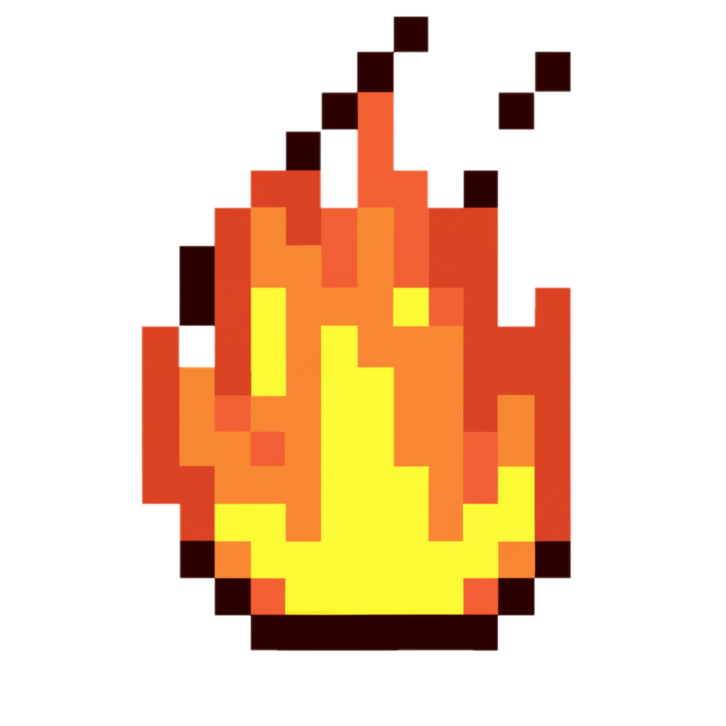
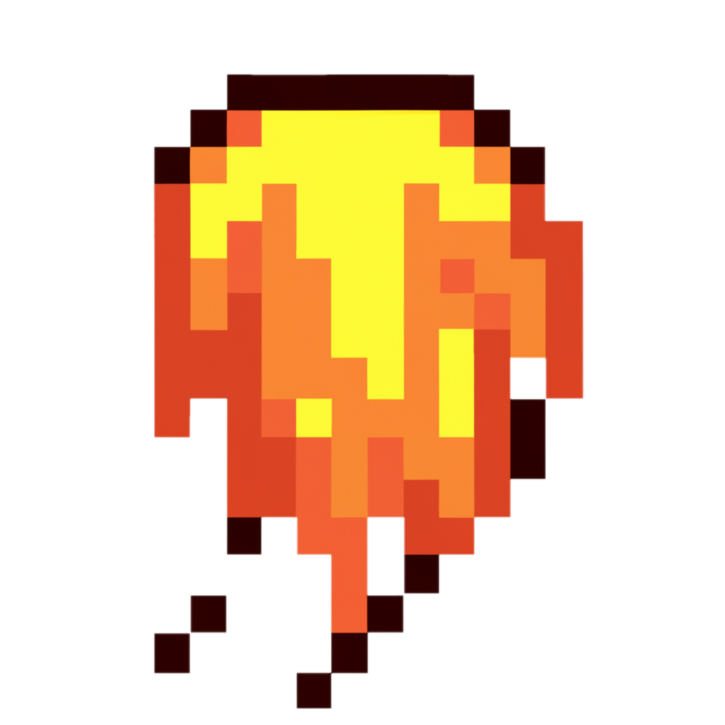
Fondo agregado, proyectiles rotados.

diff --git a/Proyecto Final 2/Assets/Scripts/BossBehavior.cs b/Proyecto Final 2/Assets/Scripts/BossBehavior.cs
@@ -33,8 +33,8 @@ public class BossBehavior : MonoBehaviour
         {
             time = Random.Range(0f, interpolationPeriod);
             GameObject balita = Instantiate(RandomObjToSpawn(), transform.position, Quaternion.identity);
-            balita.GetComponent<Rigidbody>().AddForce((player.transform.position-transform.position) * fuerza);
-            
+            balita.transform.up = (player.transform.position-transform.position);
+            balita.GetComponent<Rigidbody>().AddForce((player.transform.position-transform.position) * fuerza); 
         }
         Patrol();
     }

diff --git a/Proyecto Final 2/Assets/Scripts/Spawnear1.cs b/Proyecto Final 2/Assets/Scripts/Spawnear1.cs
@@ -29,6 +29,7 @@ public class Spawnear1 : MonoBehaviour
             {
                 time = Random.Range(0f, interpolationPeriod);
                 GameObject balita = Instantiate(RandomObjToSpawn(), transform.position, Quaternion.identity);
+                balita.transform.up = -transform.position;
                 balita.GetComponent<Rigidbody>().AddForce(-transform.position * fuerza);
                 Patrol();
             }

diff --git a/Proyecto Final 2/Assets/Scripts/Spawnear2.cs b/Proyecto Final 2/Assets/Scripts/Spawnear2.cs
@@ -29,6 +29,7 @@ public class Spawnear2 : MonoBehaviour
             {
                 time = Random.Range(0f, interpolationPeriod);
                 GameObject balita = Instantiate(RandomObjToSpawn(), transform.position, Quaternion.identity);
+                balita.transform.up = -transform.position;
                 balita.GetComponent<Rigidbody>().AddForce(-transform.position * fuerza);
                 Patrol();
             }

diff --git a/Proyecto Final 2/Assets/Scripts/Spawnear3.cs b/Proyecto Final 2/Assets/Scripts/Spawnear3.cs
@@ -29,6 +29,7 @@ public class Spawnear3 : MonoBehaviour
             {
                 time = Random.Range(0f, interpolationPeriod);
                 GameObject balita = Instantiate(RandomObjToSpawn(), transform.position, Quaternion.identity);
+                balita.transform.up = -transform.position;
                 balita.GetComponent<Rigidbody>().AddForce(-transform.position * fuerza);
                 Patrol();
             }

diff --git a/Proyecto Final 2/Assets/Scripts/Spawnear4.cs b/Proyecto Final 2/Assets/Scripts/Spawnear4.cs
@@ -29,6 +29,7 @@ public class Spawnear4 : MonoBehaviour
             {
                 time = Random.Range(0f, interpolationPeriod);
                 GameObject balita = Instantiate(RandomObjToSpawn(), transform.position, Quaternion.identity);
+                balita.transform.up = -transform.position;
                 balita.GetComponent<Rigidbody>().AddForce(-transform.position * fuerza);
                 Patrol();
             }

diff --git a/README.md b/README.md
@@ -11,39 +11,18 @@ Por determinar
 
 ## Cosas por hacer:
 
-### Bugs:
-- [x] Proyectiles chocan entre sí
-- [x] no se están eliminando los Ayuda(Clone)
+### Música y efectos de sonido:
+- [ ] Música de fondo durante el juego
+- [ ] Música para el boss
+- [ ] Música para el menú
+- [ ] Música de muerte
+- [ ] Efectos de sonido al agarrar proyectil, según si agarras algo bueno o malo
+- [ ] Voces de los personajes
 
-### Core Game:
-- [x] Contador de puntaje (Rodrigo)
-- [x] Definir comportamiento en bordes de la pantalla (Fin del juego)
-
-### Importantes
-- [ ] sumar puntaje al comer cosas buenas con salud maxima
-- [x] Hacer distintos tipos de spawners/enemigos (Anibal)
-- [x] Hacer que los spawners/enemigos vayan cambiando a medida que avanza el juego (Anibal)
-- [x] restart al perder
-- [x] barra de vida
-
-### Menos importantes
-- [ ] Projectil que mata de una 
-- [x] Hacer menú principal
-- [ ] Hacer tutorial
-- [ ] Definir y avanzar en estética y lore del juego
-- [x] Hacer pantalla de muerte
-- [ ] highscore system
-
-### Posibles Power-ups:
-- Ralentizar tiempo
-- Destruir todos los proyectiles en pantalla
-- Quitar spawner
-
-### Posibles Power-downs:
-- Aumentar velocidad de movimiento 
-- Aumentar velocidad de rotación de las pelotitas
-- Agregar spawners
-- Invertir controles
-- Freeze (no poder moverse)
+### Visual/Juice:
+- [ ] Animación que resalte la barra de vida cuando gana o pierde vida
+- [ ] Animaciones al agarrar objetos (números que saltan, algún efecto en los personajes)
+- [ ] Animación de los proyectiles
+- [ ] Definir un fondo
 
 
